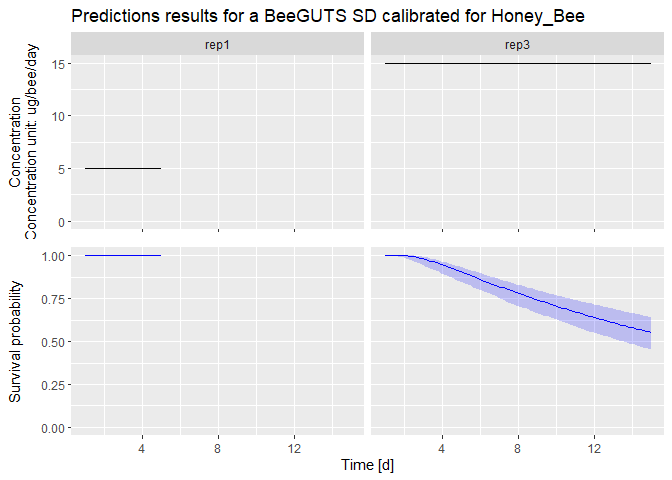
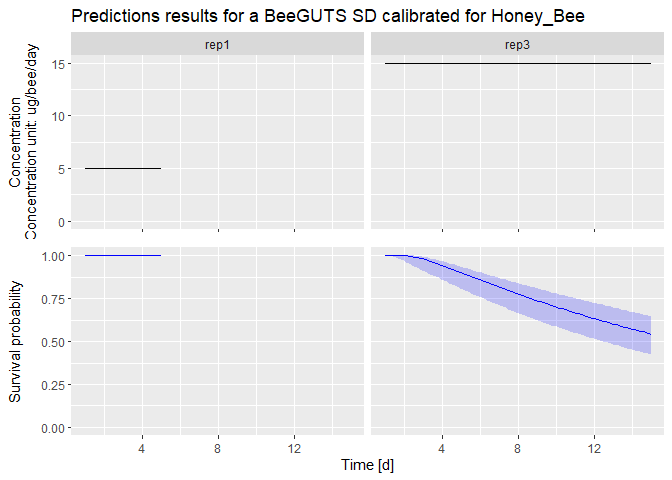
updated references

Changed region(s): [[0.5938, 0.5312, 0.9375, 0.7188], [0.9375, 0.7188, 0.9688, 0.75]]

diff --git a/README.md b/README.md
@@ -18,6 +18,25 @@ for bee species. It can be used to fit a Toxicokinetic-Toxicodynamic
 contact, and chronic oral studies). The TKTD model used is the General
 Unified Threshold model of Survival (GUTS).
 
+The model is based on the following publications:
+
+- Baas, J., Goussen, B., Taenzler, V., Roeben, V., Miles, M., Preuss,
+  T.G., van den Berg, S. and Roessink, I. (2024), Comparing Sensitivity
+  of Different Bee Species to Pesticides: A TKTD modeling approach.
+  Environ Toxicol Chem, 43: 1431-1441.
+  <https://doi.org/10.1002/etc.5871>
+
+- Baas, J., Goussen, B., Miles, M., Preuss, T.G. and Roessink, I.
+  (2022), BeeGUTS—A Toxicokinetic–Toxicodynamic Model for the
+  Interpretation and Integration of Acute and Chronic Honey Bee Tests.
+  Environ Toxicol Chem, 41: 2193-2201.
+  <https://doi.org/10.1002/etc.5423>
+
+- Jager T, Albert C, Preuss TG, Ashauer R. General unified threshold
+  model of survival–a toxicokinetic-toxicodynamic framework for
+  ecotoxicology. Environ Sci Technol. 2011 Apr 1;45(7):2529-40. doi:
+  10.1021/es103092a. Epub 2011 Mar 2. PMID: 21366215.
+
 ## Installation
 
 You can install the released version of BeeGUTS from
@@ -45,7 +64,7 @@ This is a basic example which shows you how to solve a common problem:
 
 ``` r
 library(BeeGUTS)
-#> BeeGUTS (Version 1.3.0, packaged on the: )
+#> BeeGUTS (Version 1.3.0, packaged on the: 2024-10-16 11:04:37 UTC)
 #> - For execution on a local, multicore CPU with excess RAM we recommend calling
 #>       options(mc.cores = parallel::detectCores()-1)
 #> - In addition to the functions provided by 'BeeGUTS', we recommend using the packages:
@@ -66,8 +85,8 @@ fit <- fitBeeGUTS(lsData, modelType = "SD", nIter = 3000, nChains = 1) # Fit a S
 #> 
 #> SAMPLING FOR MODEL 'GUTS_SD' NOW (CHAIN 1).
 #> Chain 1: 
-#> Chain 1: Gradient evaluation took 0.000401 seconds
-#> Chain 1: 1000 transitions using 10 leapfrog steps per transition would take 4.01 seconds.
+#> Chain 1: Gradient evaluation took 0.005427 seconds
+#> Chain 1: 1000 transitions using 10 leapfrog steps per transition would take 54.27 seconds.
 #> Chain 1: Adjust your expectations accordingly!
 #> Chain 1: 
 #> Chain 1: 
@@ -84,9 +103,9 @@ fit <- fitBeeGUTS(lsData, modelType = "SD", nIter = 3000, nChains = 1) # Fit a S
 #> Chain 1: Iteration: 2700 / 3000 [ 90%]  (Sampling)
 #> Chain 1: Iteration: 3000 / 3000 [100%]  (Sampling)
 #> Chain 1: 
-#> Chain 1:  Elapsed Time: 141.899 seconds (Warm-up)
-#> Chain 1:                106.124 seconds (Sampling)
-#> Chain 1:                248.023 seconds (Total)
+#> Chain 1:  Elapsed Time: 123.736 seconds (Warm-up)
+#> Chain 1:                95.622 seconds (Sampling)
+#> Chain 1:                219.358 seconds (Total)
 #> Chain 1:
 traceplot(fit) # Produce a diagnostic plot of the fit
 ```
@@ -125,16 +144,16 @@ summary(fit) # Gives a summary of the results
 #> Posteriors of the parameters (quantiles) (select with '$Qposteriors'):
 #> 
 #>  parameters      median        Q2.5       Q97.5
-#>       hb[1] 7.01822e-03 4.11649e-03 1.02855e-02
+#>       hb[1] 6.80591e-03 2.01196e-03 1.02061e-02
 #>  parameters      median        Q2.5       Q97.5
-#>          kd 9.84329e-01 7.11145e-01 1.62671e+00
-#>          zw 9.47394e+00 6.69596e+00 1.06831e+01
-#>          bw 8.94078e-03 7.11622e-03 1.06966e-02
+#>          kd 1.02593e+00 7.29306e-01 2.83339e+00
+#>          zw 9.35887e+00 5.04829e+00 1.07897e+01
+#>          bw 8.74272e-03 5.95570e-03 1.07498e-02
 #> 
 #> 
-#>  Maximum Rhat computed (na.rm = TRUE): 1.009446 
-#>  Minimum Bulk_ESS: 324 
-#>  Minimum Tail_ESS: 171 
+#>  Maximum Rhat computed (na.rm = TRUE): 1.009871 
+#>  Minimum Bulk_ESS: 110 
+#>  Minimum Tail_ESS: 100 
 #>  Bulk_ESS and Tail_ESS are crude measures of effecting sampling size for
 #>       bulk and tail quantities respectively. An ESS > 100 per chain can be
 #>       considered as a good indicator. Rhat is an indicator of chains convergence.
@@ -149,8 +168,8 @@ validation <- validate(fit, lsData, fithb = TRUE) # produce a validation of the 
 #> 
 #> SAMPLING FOR MODEL 'GUTS_hb_only' NOW (CHAIN 1).
 #> Chain 1: 
-#> Chain 1: Gradient evaluation took 1.3e-05 seconds
-#> Chain 1: 1000 transitions using 10 leapfrog steps per transition would take 0.13 seconds.
+#> Chain 1: Gradient evaluation took 1.4e-05 seconds
+#> Chain 1: 1000 transitions using 10 leapfrog steps per transition would take 0.14 seconds.
 #> Chain 1: Adjust your expectations accordingly!
 #> Chain 1: 
 #> Chain 1: 
@@ -167,9 +186,9 @@ validation <- validate(fit, lsData, fithb = TRUE) # produce a validation of the 
 #> Chain 1: Iteration: 2700 / 3000 [ 90%]  (Sampling)
 #> Chain 1: Iteration: 3000 / 3000 [100%]  (Sampling)
 #> Chain 1: 
-#> Chain 1:  Elapsed Time: 0.088 seconds (Warm-up)
-#> Chain 1:                0.07 seconds (Sampling)
-#> Chain 1:                0.158 seconds (Total)
+#> Chain 1:  Elapsed Time: 0.099 seconds (Warm-up)
+#> Chain 1:                0.084 seconds (Sampling)
+#> Chain 1:                0.183 seconds (Total)
 #> Chain 1: 
 #> Bayesian Inference performed with Stan.
 #>  MCMC sampling setup (select with '$setupMCMC')
@@ -178,9 +197,9 @@ validation <- validate(fit, lsData, fithb = TRUE) # produce a validation of the 
 #>  Thinning interval: 1 
 #>  Number of chains: 1 
 #> 
-#> Maximum Rhat computed (na.rm = TRUE): 1.002137 
-#>  Minimum Bulk_ESS: 487 
-#>  Minimum Tail_ESS: 522 
+#> Maximum Rhat computed (na.rm = TRUE): 1.002364 
+#>  Minimum Bulk_ESS: 257 
+#>  Minimum Tail_ESS: 410 
 #>  Bulk_ESS and Tail_ESS are crude measures of effecting sampling size for
 #>       bulk and tail quantities respectively. An ESS > 100 per chain can be
 #>       considered as a good indicator. Rhat is an indicator of chains convergence.
@@ -188,8 +207,8 @@ validation <- validate(fit, lsData, fithb = TRUE) # produce a validation of the 
 #>       one can call 'rstan::monitor(beeSurvValidation$hbfit) 
 #> 
 #> Results for hb: 
-#>  parameters      median         Q2.5       Q97.5
-#>          hb 0.002403875 0.0006760675 0.006101959
+#>  parameters      median        Q2.5       Q97.5
+#>          hb 0.002577455 0.000734436 0.006801764
 #> Note that computing can be quite long (several minutes).
 #>   Tips: To reduce that time you can reduce Number of MCMC chains (default mcmc_size is set to 1000).
 plot(validation) # plot the validation results
